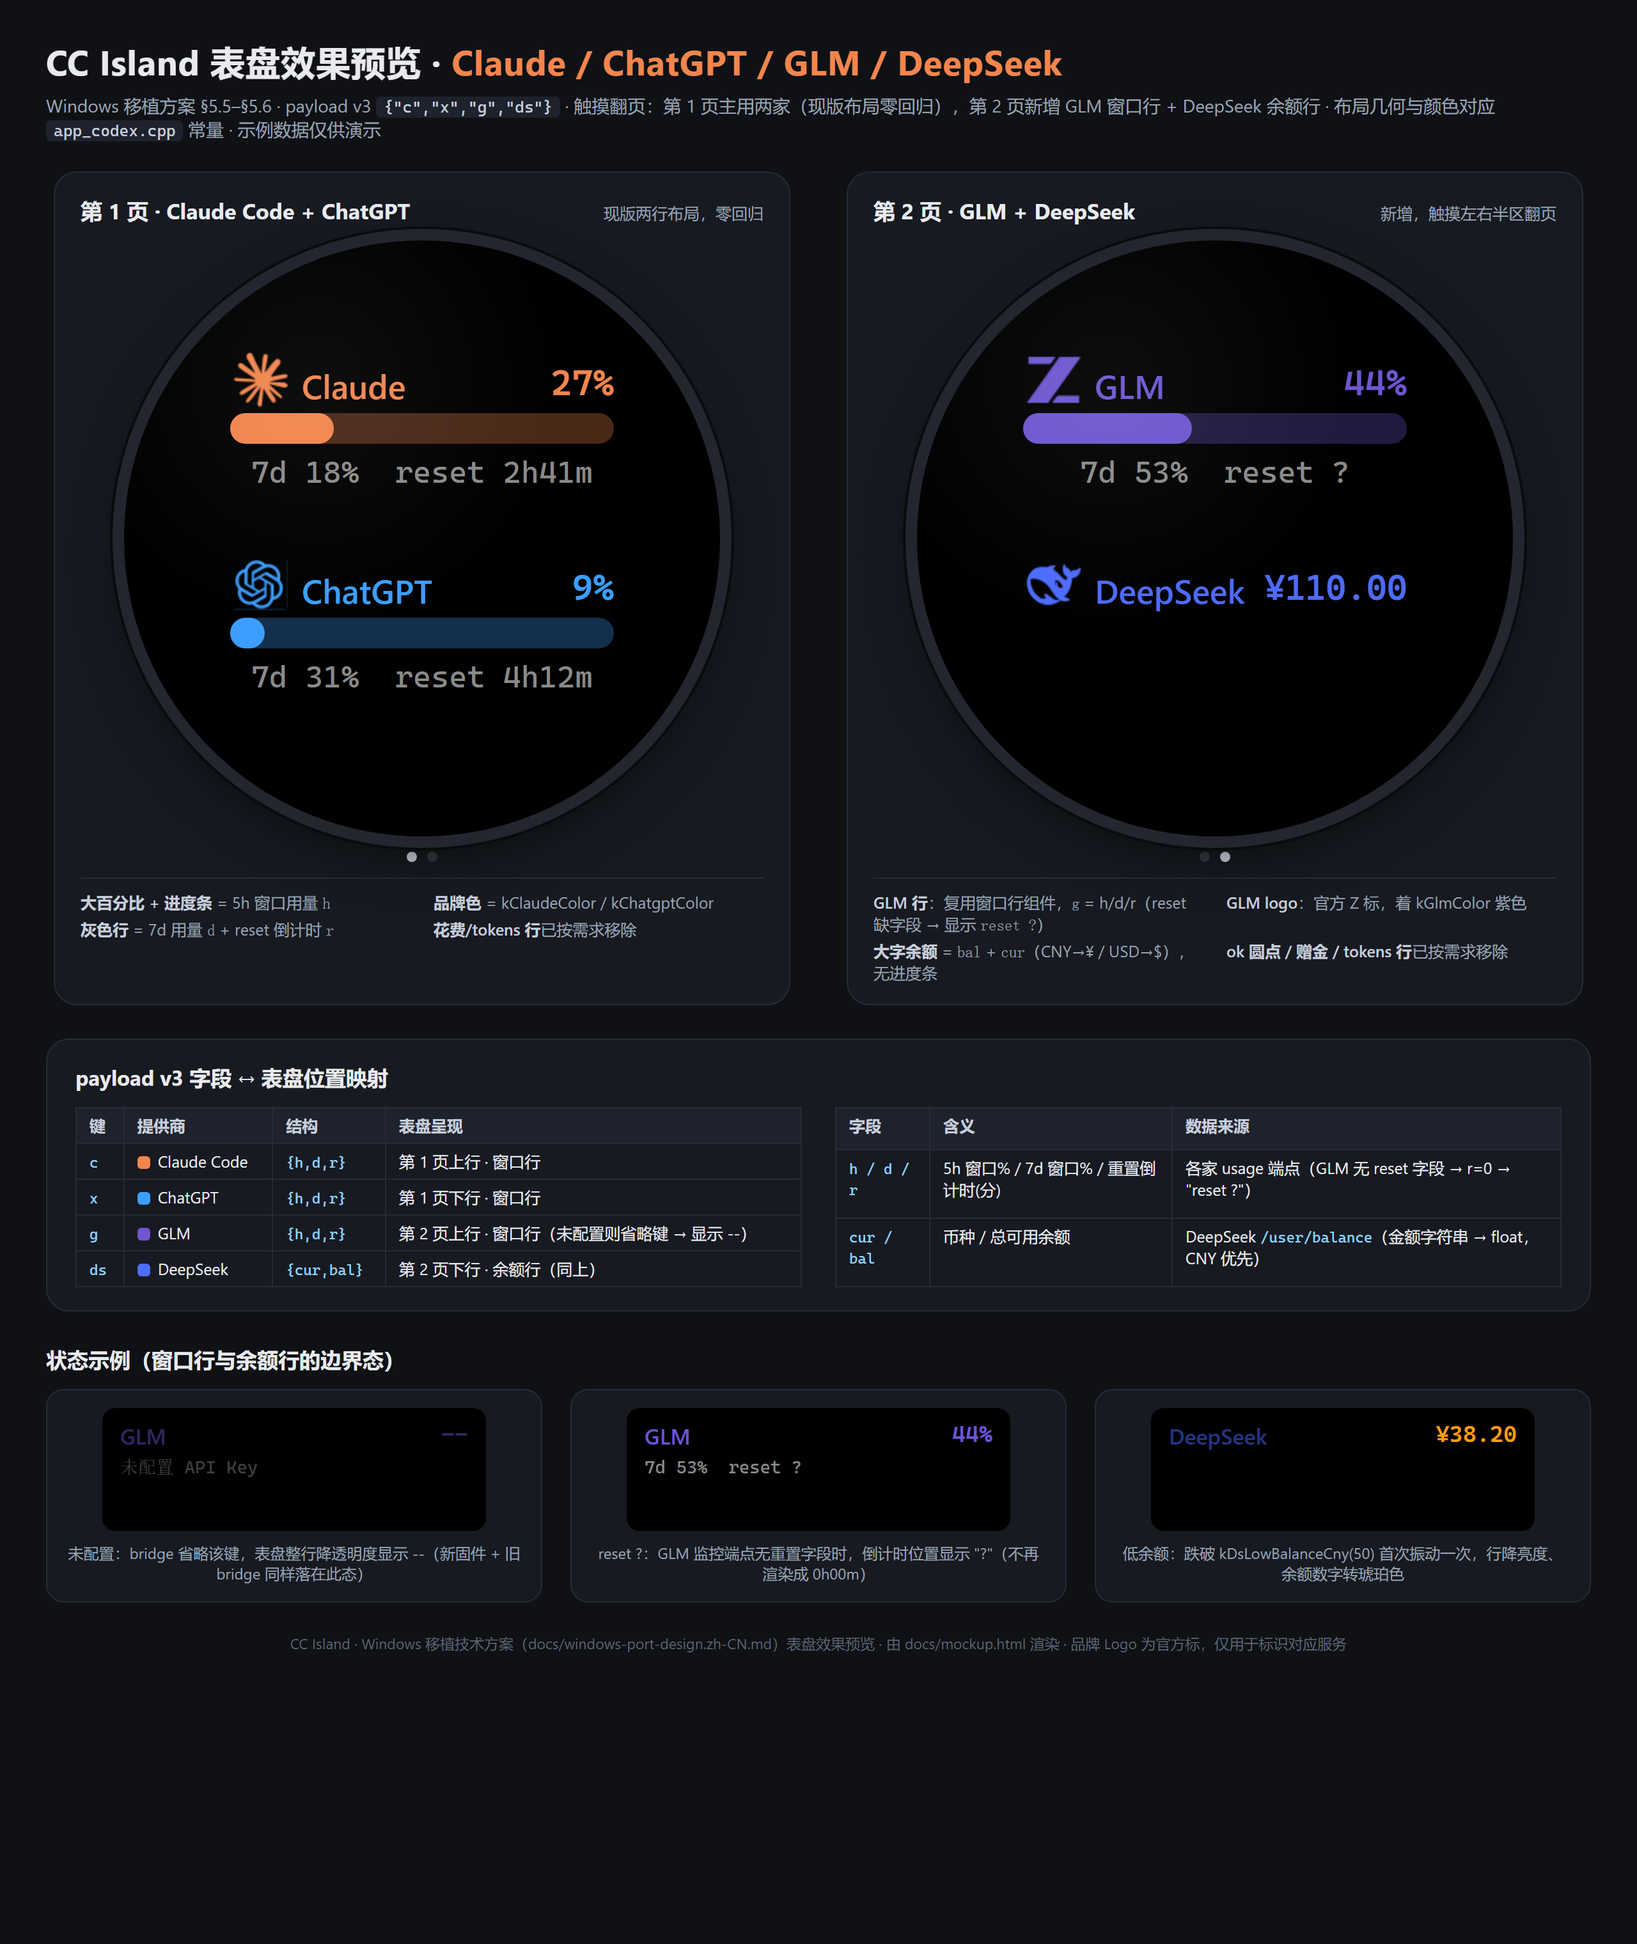
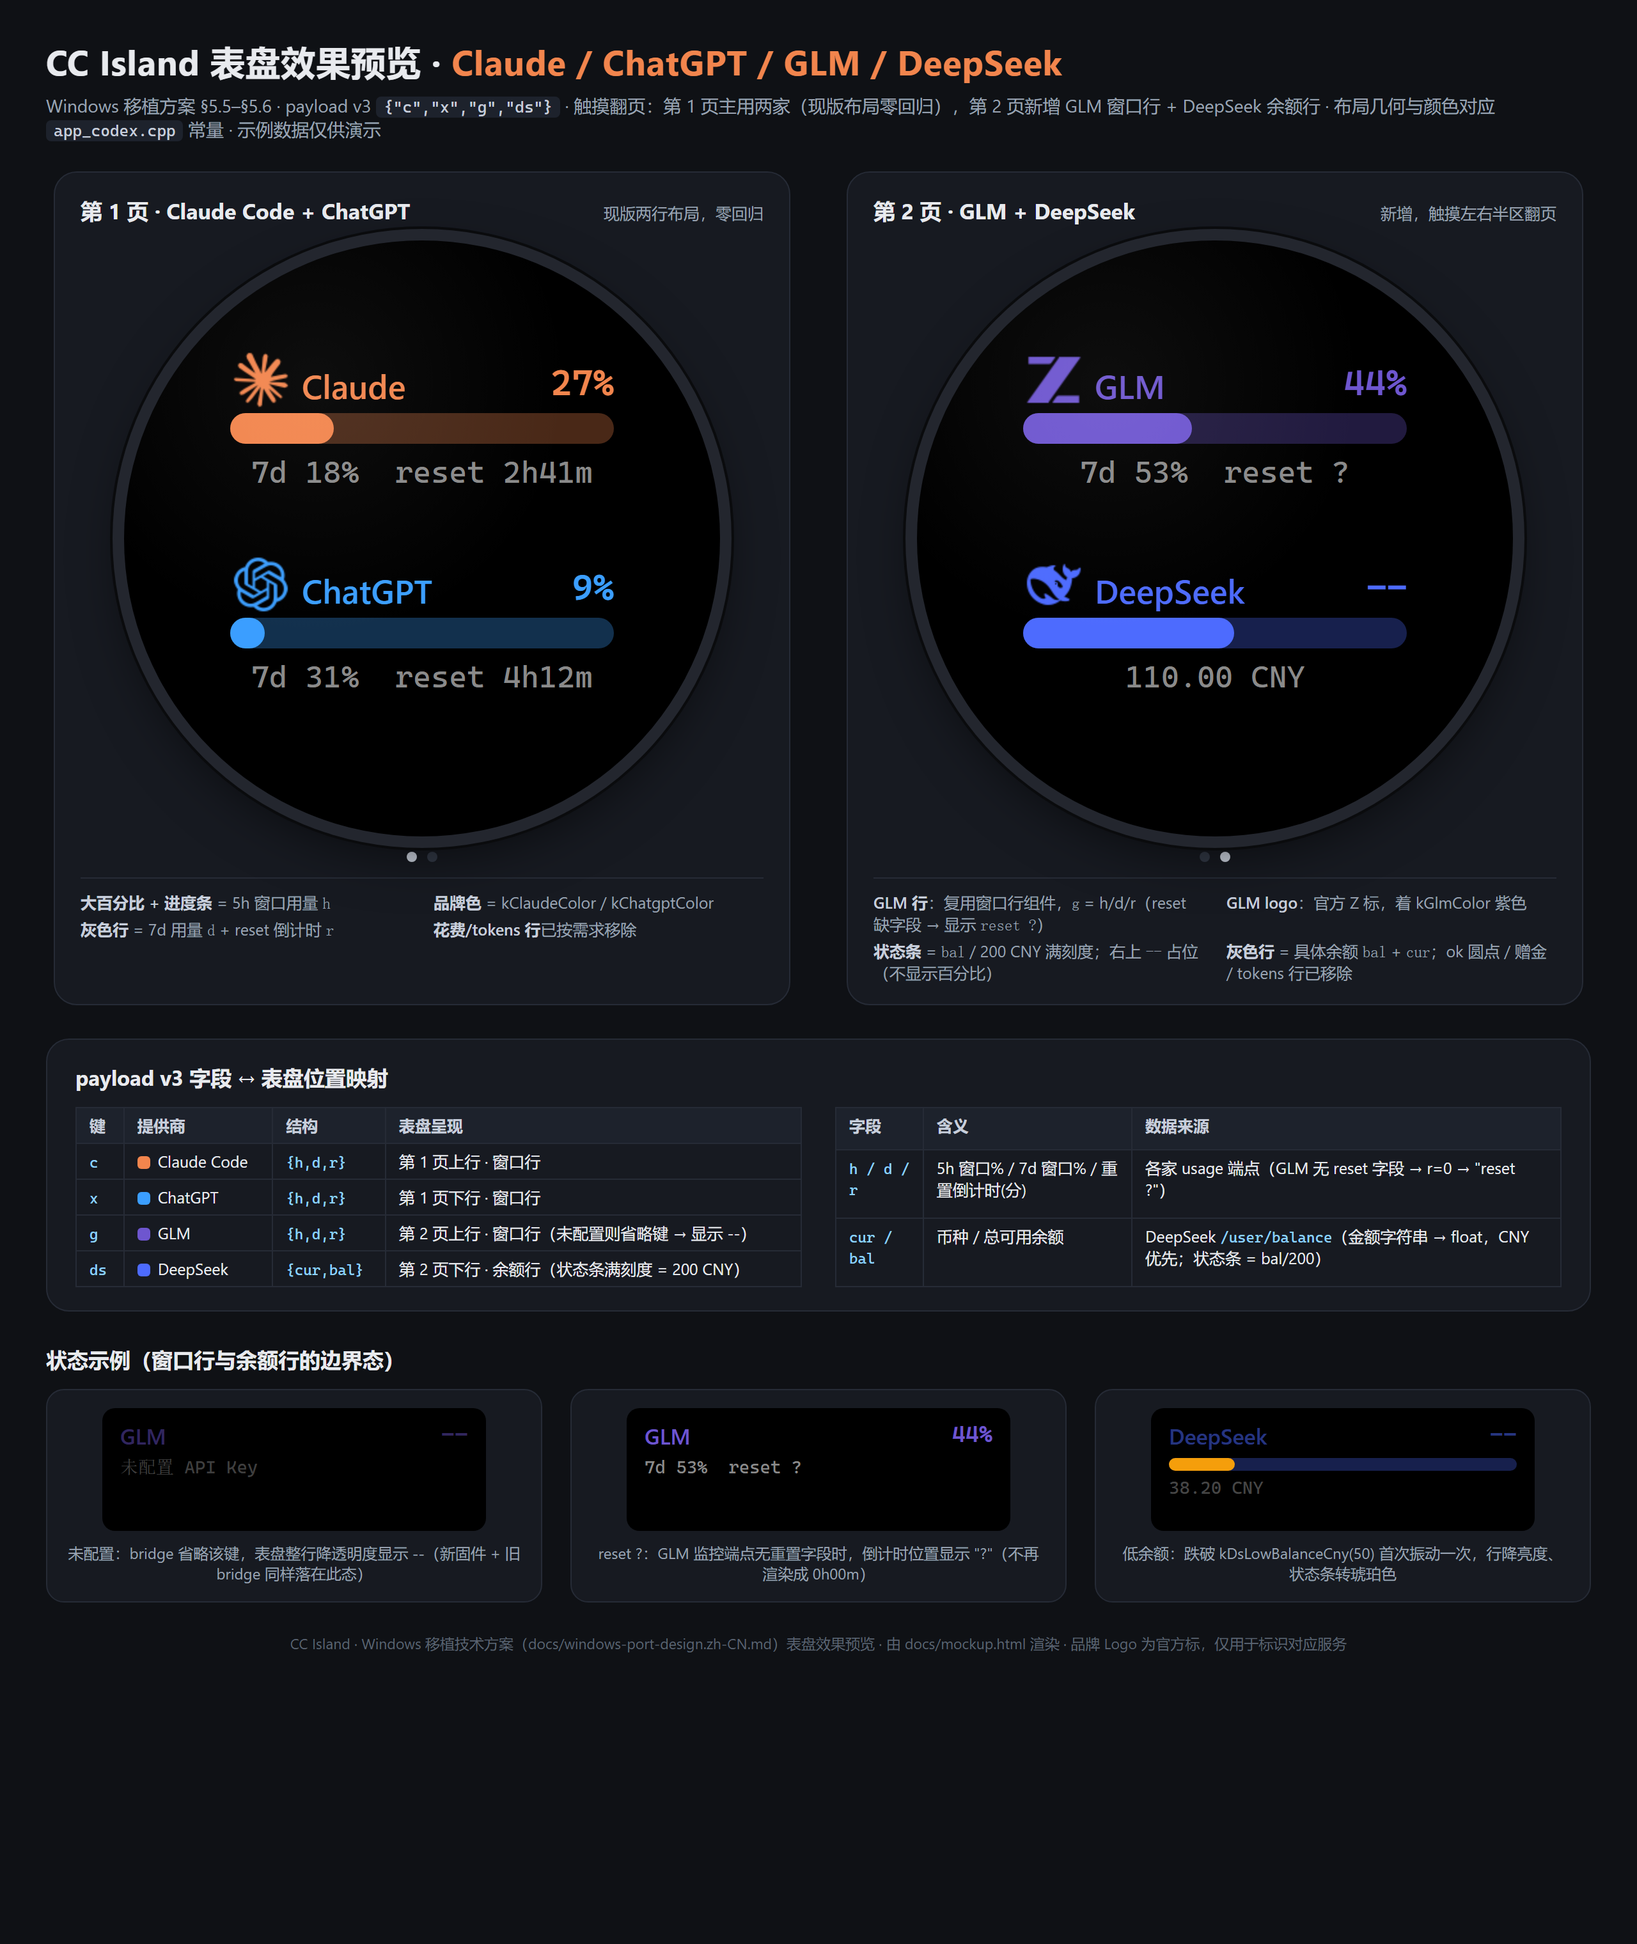
face: DeepSeek row gains the standard status bar (full scale 200 CNY)
The balance text in the top-right overlapped the row name. Per review, the
DeepSeek row now mirrors the window rows structurally: top-right shows a
'--' placeholder (no percentage), a status bar fills with balance / 200 CNY
(kDsFullBalanceCny, clamped 0-100%), and the gray line carries the actual
balance ('110.00 CNY'). Low-balance haptic at <50 CNY unchanged; mockup and
preview regenerated.

diff --git a/docs/mockup.html b/docs/mockup.html
@@ -83,7 +83,7 @@
       <div class="watch">
 
         <div class="row" style="--c:#F2854D; --ct:rgba(242,133,77,.30); top:83px;">
[2 lines of base64/hex data omitted]
           <span class="name">Claude</span>
           <span class="pct">27%</span>
           <div class="bar"><i style="width:27%"></i></div>
@@ -91,7 +91,7 @@
         </div>
 
         <div class="row" style="--c:#3B9EFF; --ct:rgba(59,158,255,.30); top:243px;">
[2 lines of base64/hex data omitted]
           <span class="name">ChatGPT</span>
           <span class="pct">9%</span>
           <div class="bar"><i style="width:9%"></i></div>
@@ -123,10 +123,12 @@
           <div class="detail">7d 53%&nbsp;&nbsp;reset ?</div>
         </div>
 
-        <div class="row bal" style="--c:#4D6BFE; top:243px;">
[1 lines of base64/hex data omitted]
+        <div class="row bal" style="--c:#4D6BFE; --ct:rgba(77,107,254,.30); top:243px;">
[1 lines of base64/hex data omitted]
           <span class="name">DeepSeek</span>
-          <span class="pct">¥110.00</span>
+          <span class="pct">--</span>
+          <div class="bar"><i style="width:55%"></i></div>
+          <div class="detail">110.00 CNY</div>
         </div>
 
       </div>
@@ -135,8 +137,8 @@
     <div class="caption">
       <span><b>GLM 行</b>：复用窗口行组件，<code>g</code> = h/d/r（reset 缺字段 → 显示 <code>reset ?</code>）</span>
       <span><b>GLM logo</b>：官方 Z 标，着 kGlmColor 紫色</span>
-      <span><b>大字余额</b> = <code>bal</code> + <code>cur</code>（CNY→¥ / USD→$），无进度条</span>
-      <span><b>ok 圆点 / 赠金 / tokens 行</b>已按需求移除</span>
+      <span><b>状态条</b> = <code>bal</code> / 200 CNY 满刻度；右上 <code>--</code> 占位（不显示百分比）</span>
+      <span><b>灰色行</b> = 具体余额 <code>bal</code> + <code>cur</code>；ok 圆点 / 赠金 / tokens 行已移除</span>
     </div>
   </div>
 
@@ -154,12 +156,12 @@
       <tr><td><code>g</code></td><td><span class="sw" style="background:#6E56CF"></span>GLM</td>
           <td><code>{h,d,r}</code></td><td>第 2 页上行 · 窗口行（未配置则省略键 → 显示 --）</td></tr>
       <tr><td><code>ds</code></td><td><span class="sw" style="background:#4D6BFE"></span>DeepSeek</td>
-          <td><code>{cur,bal}</code></td><td>第 2 页下行 · 余额行（同上）</td></tr>
+          <td><code>{cur,bal}</code></td><td>第 2 页下行 · 余额行（状态条满刻度 = 200 CNY）</td></tr>
     </table>
     <table>
       <tr><th>字段</th><th>含义</th><th>数据来源</th></tr>
       <tr><td><code>h / d / r</code></td><td>5h 窗口% / 7d 窗口% / 重置倒计时(分)</td><td>各家 usage 端点（GLM 无 reset 字段 → r=0 → "reset ?"）</td></tr>
-      <tr><td><code>cur / bal</code></td><td>币种 / 总可用余额</td><td>DeepSeek <code>/user/balance</code>（金额字符串 → float，CNY 优先）</td></tr>
+      <tr><td><code>cur / bal</code></td><td>币种 / 总可用余额</td><td>DeepSeek <code>/user/balance</code>（金额字符串 → float，CNY 优先；状态条 = bal/200）</td></tr>
     </table>
   </div>
 </section>
@@ -186,9 +188,11 @@
     <div class="state-card">
       <div class="state-row">
         <span class="name" style="color:#4D6BFE; opacity:.5;">DeepSeek</span>
-        <span class="pct" style="color:#F59E0B;">¥38.20</span>
+        <span class="pct" style="color:#4D6BFE; opacity:.5;">--</span>
+        <div class="bar" style="height:10px; border-radius:5px; margin-top:6px; background:rgba(77,107,254,.3);"><i style="display:block;height:10px;border-radius:5px;width:19%;background:#F59E0B;"></i></div>
+        <div class="detail" style="opacity:.5;">38.20 CNY</div>
       </div>
-      <p>低余额：跌破 kDsLowBalanceCny(50) 首次振动一次，行降亮度、余额数字转琥珀色</p>
+      <p>低余额：跌破 kDsLowBalanceCny(50) 首次振动一次，行降亮度、状态条转琥珀色</p>
     </div>
   </div>
 </section>

diff --git a/firmware/app_codex/app_codex.cpp b/firmware/app_codex/app_codex.cpp
@@ -30,6 +30,8 @@ static constexpr int kAlertThreshold = 80;
 
 // DeepSeek balance (CNY) below which the watch buzzes once (docs §5.3).
 static constexpr double kDsLowBalanceCny = 50.0;
+// Balance bar full scale: percentage shown = balance / kDsFullBalanceCny.
+static constexpr double kDsFullBalanceCny = 200.0;
 
 namespace {
 
@@ -93,13 +95,16 @@ struct ProviderRow {
     }
 };
 
-// DeepSeek balance row: big balance instead of a window percentage, no bar.
-// Strings are kept ASCII — the factory firmware font subsets are not
-// guaranteed to carry CJK/currency glyphs.
+// DeepSeek balance row: structurally identical to the window rows — top-right
+// shows a "--" placeholder (no percentage), the status bar fills with
+// balance / kDsFullBalanceCny, and the gray line carries the actual balance.
+// Strings stay ASCII — factory font subsets may lack CJK/currency glyphs.
 struct DsRow {
-    lv_obj_t* cont = nullptr;
-    lv_obj_t* bal  = nullptr;  // "110.00 CNY"
-    double last_bal = -1;
+    lv_obj_t* cont   = nullptr;
+    lv_obj_t* bar    = nullptr;
+    lv_obj_t* pct    = nullptr;  // "--" placeholder, no percentage
+    lv_obj_t* detail = nullptr;  // "110.00 CNY"
+    double last_bal  = -1;
 
     void set_dim(bool dim)
     {
@@ -109,7 +114,9 @@ struct DsRow {
     void show_placeholder()
     {
         set_dim(true);
-        if (bal) lv_label_set_text(bal, "--");
+        if (bar) lv_bar_set_value(bar, 0, LV_ANIM_OFF);
+        if (pct) lv_label_set_text(pct, "--");
+        if (detail) lv_label_set_text(detail, "no data");
         last_bal = -1;
     }
 
@@ -118,10 +125,14 @@ struct DsRow {
     bool apply(const char* cur, double balance)
     {
         set_dim(false);
-        if (bal) {
+        int pct_val = static_cast<int>(balance / kDsFullBalanceCny * 100.0 + 0.5);
+        pct_val = pct_val < 0 ? 0 : (pct_val > 100 ? 100 : pct_val);
+        if (bar) lv_bar_set_value(bar, pct_val, LV_ANIM_OFF);
+        if (pct) lv_label_set_text(pct, "--");
+        if (detail) {
             char b[24];
             std::snprintf(b, sizeof(b), "%.2f %s", balance, cur ? cur : "CNY");
-            lv_label_set_text(bal, b);
+            lv_label_set_text(detail, b);
         }
 
         bool crossed = (last_bal >= 0 && last_bal >= kDsLowBalanceCny && balance < kDsLowBalanceCny);
@@ -248,11 +259,32 @@ DsRow build_bal_row(lv_obj_t* parent, int y_center, const lv_image_dsc_t* logo, 
     lv_obj_set_style_text_color(name_lbl, lv_color_hex(color), 0);
     lv_obj_align(name_lbl, LV_ALIGN_TOP_LEFT, 56, 13);  // center of the 26px text on the logo mid-line (y=26)
 
-    // Big balance (right aligned): "110.00 CNY"
-    row.bal = lv_label_create(cont);
-    lv_obj_set_style_text_font(row.bal, &lv_font_maple_mono_medium_28, 0);
-    lv_obj_set_style_text_color(row.bal, lv_color_hex(color), 0);
-    lv_obj_align(row.bal, LV_ALIGN_TOP_RIGHT, 0, 12);
+    // Top-right placeholder: no percentage for the balance row
+    row.pct = lv_label_create(cont);
+    lv_label_set_text(row.pct, "--");
+    lv_obj_set_style_text_font(row.pct, &lv_font_maple_mono_medium_28, 0);
+    lv_obj_set_style_text_color(row.pct, lv_color_hex(color), 0);
+    lv_obj_align(row.pct, LV_ALIGN_TOP_RIGHT, 0, 12);
+
+    // Balance bar (full scale = kDsFullBalanceCny), same geometry as window rows
+    row.bar = lv_bar_create(cont);
+    lv_obj_set_size(row.bar, 300, 24);
+    lv_obj_align(row.bar, LV_ALIGN_TOP_MID, 0, 52);
+    lv_bar_set_range(row.bar, 0, 100);
+    lv_obj_set_style_radius(row.bar, 12, LV_PART_MAIN);
+    lv_obj_set_style_bg_color(row.bar, lv_color_hex(color), LV_PART_MAIN);
+    lv_obj_set_style_bg_opa(row.bar, LV_OPA_30, LV_PART_MAIN);
+    lv_obj_set_style_shadow_width(row.bar, 0, LV_PART_MAIN);
+    lv_obj_set_style_radius(row.bar, 12, LV_PART_INDICATOR);
+    lv_obj_set_style_bg_color(row.bar, lv_color_hex(color), LV_PART_INDICATOR);
+    lv_obj_set_style_bg_opa(row.bar, LV_OPA_COVER, LV_PART_INDICATOR);
+    lv_obj_add_flag(row.bar, LV_OBJ_FLAG_EVENT_BUBBLE);
+
+    // Gray line: the actual balance
+    row.detail = lv_label_create(cont);
+    lv_obj_set_style_text_font(row.detail, &lv_font_maple_mono_medium_24, 0);
+    lv_obj_set_style_text_color(row.detail, lv_color_hex(kDetailColor), 0);
+    lv_obj_align(row.detail, LV_ALIGN_TOP_MID, 0, 84);
 
     return row;
 }

diff --git a/firmware/app_codex/ble/ble_nus.cpp b/firmware/app_codex/ble/ble_nus.cpp
@@ -17,6 +17,7 @@
 #include <nvs_flash.h>
 #include <mooncake_log.h>
 
+#include <esp_random.h>
 #include "nimble/nimble_port.h"
 #include "nimble/nimble_port_freertos.h"
 #include "host/ble_hs.h"
@@ -138,14 +139,24 @@ int gap_event(struct ble_gap_event* event, void*)
 {
     switch (event->type) {
         case BLE_GAP_EVENT_CONNECT:
+            mclog::tagInfo(TAG, "connect status={} handle={}",
+                           event->connect.status, event->connect.conn_handle);
             if (event->connect.status == 0)
                 g_conn_handle = event->connect.conn_handle;
             else
                 start_advertising();
             break;
         case BLE_GAP_EVENT_DISCONNECT:
+            mclog::tagInfo(TAG, "disconnect reason={:#x}", event->disconnect.reason);
             g_conn_handle = BLE_HS_CONN_HANDLE_NONE;
             start_advertising();
+            break;
+        case BLE_GAP_EVENT_MTU:
+            mclog::tagInfo(TAG, "mtu {}->{}", event->mtu.conn_handle, event->mtu.value);
+            break;
+        case BLE_GAP_EVENT_SUBSCRIBE:
+            mclog::tagInfo(TAG, "subscribe handle={} reason={}",
+                           event->subscribe.attr_handle, event->subscribe.reason);
             break;
         case BLE_GAP_EVENT_ADV_COMPLETE:
             start_advertising();
@@ -162,23 +173,46 @@ void start_advertising()
     adv_params.conn_mode = BLE_GAP_CONN_MODE_UND;
     adv_params.disc_mode = BLE_GAP_DISC_MODE_GEN;
 
+    // flags + complete name go into the adv packet; the 128-bit service UUID
+    // goes into the scan response. Both in one packet totals 32 bytes — one
+    // over the 31-byte legacy limit — so ble_gap_adv_set_fields fails with
+    // EMSGSIZE and the device would advertise with NO name and NO UUID.
     struct ble_hs_adv_fields fields = {};
     fields.flags = BLE_HS_ADV_F_DISC_GEN | BLE_HS_ADV_F_BREDR_UNSUP;
     fields.name = (uint8_t*)g_name;
     fields.name_len = strlen(g_name);
     fields.name_is_complete = 1;
-    fields.uuids128 = &kSvcUuid;
-    fields.num_uuids128 = 1;
-    fields.uuids128_is_complete = 1;
-    ble_gap_adv_set_fields(&fields);
+    int rc = ble_gap_adv_set_fields(&fields);
+    if (rc != 0) {
+        mclog::tagError(TAG, "adv_set_fields rc={}", rc);
+        return;
+    }
 
-    ble_gap_adv_start(g_addr_type, nullptr, BLE_HS_FOREVER, &adv_params,
-                      gap_event, nullptr);
+    struct ble_hs_adv_fields rsp = {};
+    rsp.uuids128 = &kSvcUuid;
+    rsp.num_uuids128 = 1;
+    rsp.uuids128_is_complete = 1;
+    rc = ble_gap_adv_rsp_set_fields(&rsp);
+    if (rc != 0) {
+        mclog::tagError(TAG, "adv_rsp_set_fields rc={}", rc);
+        return;
+    }
+
+    rc = ble_gap_adv_start(g_addr_type, nullptr, BLE_HS_FOREVER, &adv_params,
+                           gap_event, nullptr);
+    if (rc != 0)
+        mclog::tagError(TAG, "adv_start rc={}", rc);
 }
 
 void on_sync()
 {
-    ble_hs_id_infer_auto(0, &g_addr_type);
+    // We provision a random static address in start(); never fall back to the
+    // public eFuse MAC (that is the address Windows' poisoned cache is keyed on).
+    g_addr_type = BLE_OWN_ADDR_RANDOM;
+    uint8_t addr[6] = {0};
+    ble_hs_id_copy_addr(BLE_ADDR_RANDOM, addr, nullptr);
+    mclog::tagInfo(TAG, "identity {:02x}:{:02x}:{:02x}:{:02x}:{:02x}:{:02x}",
+                   addr[5], addr[4], addr[3], addr[2], addr[1], addr[0]);
     start_advertising();
     mclog::tagInfo(TAG, "advertising as '{}'", g_name);
 }
@@ -218,6 +252,17 @@ void start(const char* device_name)
     ble_gatts_count_cfg(kSvcs);
     ble_gatts_add_svcs(kSvcs);
     ble_svc_gap_device_name_set(g_name);
+
+    // Fresh random static identity per boot: Windows poisons its per-address
+    // GATT cache when a flashed device's database changes, then tears down
+    // every new connection with HCI 0x13. A new address each boot sidesteps
+    // the poisoned cache (clients match this device by name, not address).
+    {
+        uint8_t rnd[6] = {0};
+        esp_fill_random(rnd, sizeof(rnd));
+        rnd[0] |= 0xC0;   // static random address: the two MSBs must be 1
+        ble_hs_id_set_rnd(rnd);
+    }
 
     ble_hs_cfg.sync_cb = on_sync;
 

diff --git a/bridge/codexisland_bridge.py b/bridge/codexisland_bridge.py
@@ -129,7 +129,12 @@ def _parse_reset(value):
     if value is None:
         return None
     if isinstance(value, (int, float)):
-        return int(value)
+        value = int(value)
+        # GLM's nextResetTime arrives in milliseconds; normalize to seconds
+        # (ms-since-epoch crossed 10^12 in 2001, s-since-epoch hits it in 33658).
+        if value > 10**12:
+            value //= 1000
+        return value
     # ISO string
     try:
         from datetime import datetime
@@ -664,7 +669,10 @@ def _win_pct(w):
 def _reset_min(w):
     if not w or not w.get("reset_at"):
         return 0
-    return max(0, int((w["reset_at"] - time.time()) / 60))
+    reset_at = w["reset_at"]
+    if reset_at > 10**12:      # defensive: ms leaked past _parse_reset
+        reset_at //= 1000
+    return max(0, int((reset_at - time.time()) / 60))
 
 
 def compact(data):
@@ -766,9 +774,20 @@ async def ble_loop(interval_s):
         await client.connect()
         _log(f"connected to {dev.address}")
         try:
+            # Windows can return an incomplete GATT table right after the watch
+            # (re)boots; force discovery and fail fast so the outer loop retries.
+            nus = next((s for s in client.services
+                        if s.uuid.lower().startswith(NUS_SERVICE_UUID[:8])), None)
+            if nus is None or not nus.characteristics:
+                raise RuntimeError("NUS service not discovered yet (transient)")
             await client.start_notify(NUS_TX_UUID, lambda _h, _d: refresh.set())
         except Exception as e:  # noqa: BLE001
             _log("  (button refresh unavailable: " + repr(e) + ")")
+            try:
+                await client.disconnect()
+            except Exception:
+                pass
+            raise
         return client
 
     async def push(client, tag):
